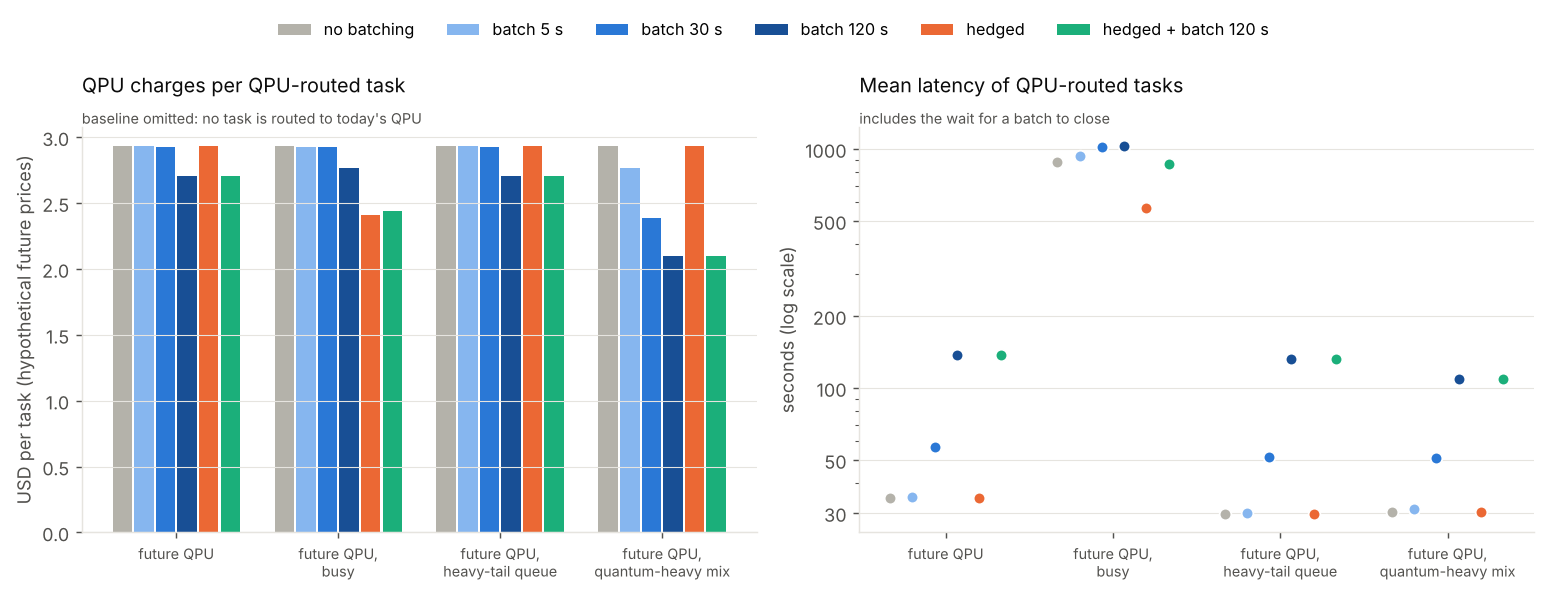
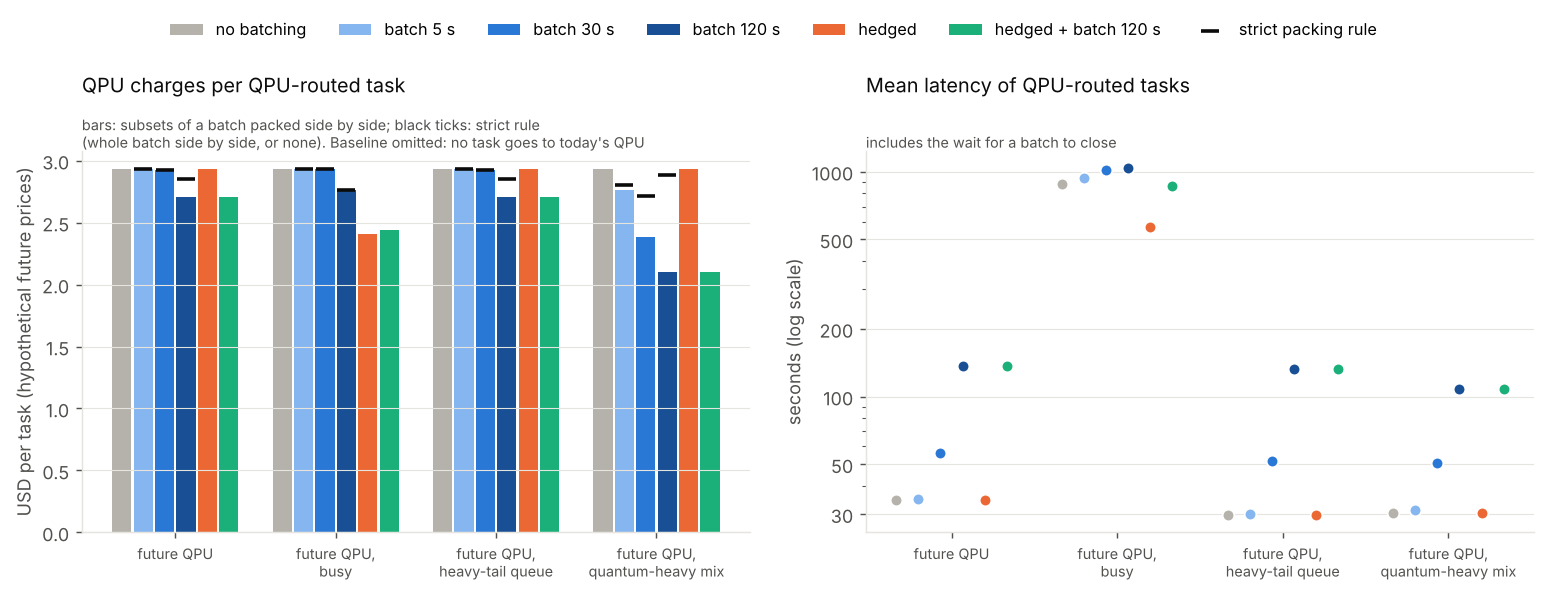
E7 review fixes: circuit-aligned shot sharing, strict-packing rows at every window
- Packed groups of programs with different shapes were charged the larger
  member's total shots (max of n_circuits x shots), which no circuit alignment
  can achieve: kernel 310x500 next to TFIM 5x4000 paid 155,000 shots instead of
  172,500. Simulator._group_round now merges circuit j of every member into one
  combined circuit (most shots, slowest per-shot time among members that have a
  circuit j). Same-shape members keep the old formula exactly, so every E7
  number is unchanged (all E7 QPU programs are 5x4000 TFIM circuits).
- The 120 s headline saving (-28.4% on quantum_heavy_future) depends on the
  first-fit subset packing added beyond the strict packing rule; only the 30 s
  strict figure was reported. E7 now runs the strict rule (-allfit) at 5, 30
  and 120 s: at 120 s it saves 1.5% (quantum_heavy_future) and 2.7%
  (future_qpu, heavy tail), with the same or larger hit-rate loss. The cost
  figure marks the strict-rule value on each batching bar.
- assumptions.md: the host share overlaps the batch window (and one slow member
  delays the job), packing uses the catalogue's 133 qubits, not a calibrated
  usable count; shot-sharing row describes the merged-circuit rule.
- EXTRA_SCENARIOS copy future_qpu's belief_scale dict instead of sharing it.
- Tests: mixed-shape packing pays circuit-aligned shots; a hedged member that
  expires while its batch is queued is withdrawn, pays nothing, gets censored
  feedback, and the rest share a job priced without it.
[…]

diff --git a/qedge/experiments/e7_batching.py b/qedge/experiments/e7_batching.py
@@ -1,6 +1,7 @@
 """E7: does batching QPU jobs, or racing a classical fallback against them, pay off?
 
-Both ideas target the QPU's fixed costs rather than its speed. Batching shares
+Both ideas work around the QPU's overheads (fixed per-job costs, queue risk)
+rather than its speed. Batching shares
 one provider job (one queue wait, one job overhead, one per-task fee) among
 several tasks and, when their programs fit side by side on the chip, shares
 shots too; the price is the time a task waits for its batch to close. Race mode
@@ -13,9 +14,12 @@ its place through the cost model's quality gate.
 Variants, all on the same workloads and random numbers per (scenario, seed):
 
 * ``adaptive``: qedge_adaptive, one job per task (the E3 policy);
-* ``adaptive+batch{5,30,120}``: windows of 5/30/120 s, up to 8 tasks, spatial packing;
+* ``adaptive+batch{5,30,120}``: windows of 5/30/120 s, up to 8 tasks, spatial packing
+  of first-fit-decreasing subsets (an extension beyond the strict packing rule);
+* ``adaptive+batch{5,30,120}-allfit``: the strict rule, all members side by side or
+  all back to back. With 34-79 qubit programs on 133 qubits whole batches rarely fit,
+  so most of the batching saving depends on subset packing; compare these rows;
 * diagnostics at 30 s: ``-seq`` (no spatial packing: members run back to back),
-  ``-allfit`` (all members side by side or none, the strict reading of the brief),
   ``-blind`` (the policy is not told about the batch window);
 * ``hedged``: qedge_hedged, P(miss) threshold 0.05;
 * ``hedged+batchW``: hedging plus the best window W, chosen by ``best_window``.
@@ -49,8 +53,9 @@ SWEEP_SCENARIOS = ["future_qpu_busy", "future_qpu_heavy_tail", "quantum_heavy_fu
 def variants(best: float | None = None) -> dict[str, tuple[str, BatchConfig | None]]:
     v = {"adaptive": ("qedge_adaptive", None)}
     v.update({f"adaptive+batch{w}": ("qedge_adaptive", BatchConfig(w, MAX_TASKS)) for w in WINDOWS})
+    v.update({f"adaptive+batch{w}-allfit": ("qedge_adaptive", BatchConfig(w, MAX_TASKS, partial_packing=False))
+              for w in WINDOWS})
     v["adaptive+batch30-seq"] = ("qedge_adaptive", BatchConfig(30, MAX_TASKS, spatial=False))
-    v["adaptive+batch30-allfit"] = ("qedge_adaptive", BatchConfig(30, MAX_TASKS, partial_packing=False))
     v["adaptive+batch30-blind"] = ("qedge_adaptive", BatchConfig(30, MAX_TASKS, inform_policy=False))
     v["hedged"] = ("qedge_hedged", None)
     if best is not None:
@@ -198,7 +203,7 @@ def make_figures(res_dir: str = "results", fig_dir: str = "figures") -> list[str
     import matplotlib.pyplot as plt
     from matplotlib.ticker import FuncFormatter, NullFormatter
 
-    from .figures import MUTED, _save
+    from .figures import INK, MUTED, _save
     os.makedirs(fig_dir, exist_ok=True)
     s = pd.read_csv(os.path.join(res_dir, "e7_batching_summary.csv"))
     per_run = pd.read_csv(os.path.join(res_dir, "e7_batching.csv"))
@@ -210,7 +215,9 @@ def make_figures(res_dir: str = "results", fig_dir: str = "figures") -> list[str
 
     def legend(fig, ax):
         h, lab = ax.get_legend_handles_labels()
-        fig.legend(h, lab, loc="lower center", bbox_to_anchor=(0.5, 1.0), ncol=len(names), fontsize=9)
+        order = sorted(range(len(lab)), key=lambda i: lab[i] == "strict packing rule")   # markers last
+        h, lab = [h[i] for i in order], [lab[i] for i in order]
+        fig.legend(h, lab, loc="lower center", bbox_to_anchor=(0.5, 1.0), ncol=len(h), fontsize=9)
 
     # 1. Deadline hit rate: all tasks (per-seed range) and QPU-routed tasks (pooled over seeds).
     fig, axes = plt.subplots(1, 2, figsize=(12, 4.2))
@@ -255,6 +262,10 @@ def make_figures(res_dir: str = "results", fig_dir: str = "figures") -> list[str
         x = x0 + (j - (len(names) - 1) / 2) * width
         d = s[s.variant == v].set_index("scenario")
         axes[0].bar(x, d.qpu_cost_per_qpu_task[FUTURE], width * 0.9, color=color, label=label)
+        strict = s[s.variant == f"{v}-allfit"].set_index("scenario")
+        if len(strict):
+            axes[0].scatter(x, strict.qpu_cost_per_qpu_task[FUTURE], marker="_", s=110, linewidth=2, color=INK,
+                            zorder=3, label="strict packing rule" if v == "adaptive+batch5" else None)
         # Log scale has no zero baseline, so latency is drawn as dots, not bars.
         axes[1].scatter(x, d.qpu_mean_latency_s[FUTURE], s=42, color=color, edgecolor="white", linewidth=1,
                         zorder=3, label=label)
@@ -262,16 +273,17 @@ def make_figures(res_dir: str = "results", fig_dir: str = "figures") -> list[str
         ax.set_xticks(x0)
         ax.set_xticklabels([SC_LABEL[sc] for sc in FUTURE], fontsize=8)
         ax.grid(axis="x", visible=False)
-    axes[0].set_title("QPU charges per QPU-routed task\n", loc="left")
+    axes[0].set_title("QPU charges per QPU-routed task\n\n", loc="left")
     axes[0].set_ylabel("USD per task (hypothetical future prices)")
-    axes[1].set_title("Mean latency of QPU-routed tasks\n", loc="left")
+    axes[1].set_title("Mean latency of QPU-routed tasks\n\n", loc="left")
     axes[1].set_ylabel("seconds (log scale)")
     axes[1].set_yscale("log")
     axes[1].yaxis.set_major_formatter(FuncFormatter(lambda v, _: f"{v:g}"))
     axes[1].yaxis.set_minor_formatter(NullFormatter())
     lo, hi = axes[1].get_ylim()
     axes[1].set_yticks([t for t in (10, 20, 30, 50, 100, 200, 500, 1000, 2000, 5000) if lo <= t <= hi])
-    axes[0].text(0, 1.0, "baseline omitted: no task is routed to today's QPU", transform=axes[0].transAxes,
+    axes[0].text(0, 1.0, "bars: subsets of a batch packed side by side; black ticks: strict rule\n(whole batch "
+                 "side by side, or none). Baseline omitted: no task goes to today's QPU", transform=axes[0].transAxes,
                  fontsize=8, color=MUTED, va="bottom")
     axes[1].text(0, 1.0, "includes the wait for a batch to close", transform=axes[1].transAxes,
                  fontsize=8, color=MUTED, va="bottom")

diff --git a/qedge/simulation/simulator.py b/qedge/simulation/simulator.py
@@ -89,10 +89,10 @@ EXTRA_SCENARIOS: dict[str, Scenario] = {s.name: s for s in [
     Scenario("future_qpu_heavy_tail", "Hypothetical future QPU with future_qpu's mean queue, but the real wait is "
              "lognormal (sigma 1.5, same mean): most jobs start sooner, about 1% wait 10x the mean or more. "
              "The provider publishes the true mean.",
-             belief_scale=SCENARIOS["future_qpu"].belief_scale, queue_dist="lognormal", queue_sigma=1.5),
+             belief_scale=dict(SCENARIOS["future_qpu"].belief_scale), queue_dist="lognormal", queue_sigma=1.5),
     Scenario("quantum_heavy_future", "Hypothetical future QPU with a workload mix weighted toward quantum simulation "
              "and optimisation and 3x the arrival rate, so enough work reaches the QPU to batch.",
-             belief_scale=SCENARIOS["future_qpu"].belief_scale, rate_per_s=0.6, mix=QUANTUM_HEAVY_MIX),
+             belief_scale=dict(SCENARIOS["future_qpu"].belief_scale), rate_per_s=0.6, mix=QUANTUM_HEAVY_MIX),
 ]}
 
 
@@ -138,8 +138,8 @@ class BatchConfig:
     max_tasks: int = 8
     spatial: bool = True             # members that fit run side by side on disjoint qubit regions
     buffer_overhead: float = 0.25    # idle qubits fencing each program off, as a fraction of its width (assumption)
-    partial_packing: bool = True     # if the whole batch does not fit, pack subsets first-fit decreasing;
-                                     # False = all members side by side or all back to back
+    partial_packing: bool = True     # if the whole batch does not fit, pack subsets first-fit decreasing
+                                     # (an extension); False = the strict rule: all side by side or all back to back
     pack_fidelity_factor: float | Callable[[int], float] = 1.0   # x fidelity when k programs share the chip
     inform_policy: bool = True       # the policy sees the expected wait for the batch to close as QPU slot wait
 
@@ -401,13 +401,35 @@ class Simulator:
                 room.append(q.max_qubits - foot[m.i])
         return groups
 
+    @staticmethod
+    def _group_round(act: list[_Member]) -> tuple[float, float]:
+        """(shots, execution time) of one round of programs running side by side.
+
+        Circuit j of every member runs inside one combined circuit, which needs the most shots
+        and the slowest per-shot time among the members that have a circuit j; a member with
+        fewer circuits drops out of the later combined circuits. Members of the same shape
+        (circuits, rounds, shots) reduce to the slowest member's time and one member's shots."""
+        if len({(m.w.quantum.n_circuits, m.rounds, m.w.quantum.shots) for m in act}) == 1:
+            m0 = act[0]
+            return m0.w.quantum.n_circuits * m0.w.quantum.shots / m0.rounds, max(m.b("q_exec") / m.rounds for m in act)
+        circ = {m.i: m.w.quantum.n_circuits / m.rounds for m in act}           # circuits per round
+        order = sorted(act, key=lambda m: -circ[m.i])
+        shots = t = s_max = tau_max = 0.0
+        for k, m in enumerate(order):
+            qp = m.w.quantum
+            s_max = max(s_max, qp.shots)
+            tau_max = max(tau_max, m.b("q_exec") / (qp.n_circuits * qp.shots))  # seconds per shot
+            step = circ[m.i] - (circ[order[k + 1].i] if k + 1 < len(order) else 0.0)
+            shots += step * s_max
+            t += step * s_max * tau_max
+        return shots, t
+
     def _plan(self, run: list[_Member], q: Resource) -> _Plan:
         """Lockstep rounds: each round is one job with the members that still have rounds left.
-        Within a group the slowest member sets the time and the largest shot count is paid
-        (shots are shared); groups, and members that are not packed, add up."""
+        Within a group the members' circuits are run in combined circuits (``_group_round``), so
+        shots are shared; groups, and members that are not packed, add up."""
         groups = self._pack(run, q)
         hop = {m.i: m.b("q_rounds") / m.rounds - q.job_overhead_s for m in run}  # host<->QPU hop per round
-        shots = {m.i: m.w.quantum.n_circuits * m.w.quantum.shots for m in run}
         n_rounds = max(m.rounds for m in run)
         t = exec_total = shots_total = 0.0
         done: dict[int, float] = {}
@@ -416,8 +438,9 @@ class Simulator:
             for g in groups:
                 act = [m for m in g if m.rounds >= r]
                 if act:
-                    exec_r += max(m.b("q_exec") / m.rounds for m in act)
-                    shots_r += max(shots[m.i] / m.rounds for m in act)
+                    s, e = self._group_round(act)
+                    exec_r += e
+                    shots_r += s
                     hop_r = max(hop_r, max(hop[m.i] for m in act))
             t += q.job_overhead_s + hop_r + exec_r
             exec_total += exec_r

diff --git a/tests/test_batching.py b/tests/test_batching.py
@@ -269,6 +269,22 @@ def test_programs_that_do_not_fit_run_back_to_back():
     assert two.pack_group.tolist() == [1, 1]
 
 
+def test_packed_programs_of_different_shapes_pay_circuit_aligned_shots():
+    """Kernel (310 circuits x 500 shots) next to TFIM (5 x 4000): the five combined circuits need 4000 shots
+    each and the kernel's other 305 circuits 500 each, which is more than the larger member's shots alone."""
+    k = make_workload("kernel_classification", 0, seed=0, features=4, n_train=20, deadline_s=1e5, privacy=False)
+    s = make_workload("quantum_simulation", 1, seed=1, n=20, steps=4, deadline_s=1e5)
+    k.arrival_s, s.arrival_s = 0.0, 1.0
+    q = Simulator(QUIET).true["qpu"]
+    df = run_always(QUIET, [k, s], BatchConfig(window_s=10, max_tasks=2))
+    assert df.pack_group.tolist() == [2, 2]
+    kc, ks, sc, ss = k.quantum.n_circuits, k.quantum.shots, s.quantum.n_circuits, s.quantum.shots
+    assert (kc, ss) == (310, 4000)
+    shots = sc * max(ks, ss) + (kc - sc) * ks
+    assert df.qpu_cost_usd.sum() == pytest.approx(q.cost_per_task + shots * q.cost_per_shot)
+    assert kc * ks < shots < kc * ks + sc * ss
+
+
 def test_pack_fidelity_factor_lowers_packed_quality_only():
     wl = qsim_tasks([0, 1], n=20, steps=12)
     alone = run_always(QUIET, wl)
@@ -329,6 +345,42 @@ def test_qpu_job_cancelled_in_queue_costs_nothing():
     # without the hedge the same job runs (late) and is paid in full
     plain = run_always(stuck, wl).iloc[0]
     assert not plain.deadline_met and plain.qpu_cost_usd == pytest.approx(_qpu_charge(wl[0], sim.true["qpu"]))
+
+
+class HedgeSome(AlwaysQPU):
+    """AlwaysQPU that hedges only the listed task ids (with cloud_gpu) and records its feedback."""
+
+    def __init__(self, resources, seed=0, hedge_ids=()):
+        super().__init__(resources, seed, hedge_with="cloud_gpu")
+        self.hedge_ids, self.outcomes = set(hedge_ids), []
+
+    def decide(self, w, st):
+        d = super().decide(w, st)
+        if w.id not in self.hedge_ids:
+            d.hedge = d.hedge_estimate = None
+        return d
+
+    def observe(self, decision, outcome):
+        self.outcomes.append((decision.workload.id, decision.placement.quantum, outcome))
+
+
+def test_hedged_member_withdrawn_from_a_queued_batch_pays_nothing_and_others_share_without_it():
+    queued = dataclasses.replace(QUIET, name="queue_200", queue_trace=[200.0])   # every job waits 200 s
+    wl = qsim_tasks([0, 1, 2], n=30)
+    wl[0].deadline_s, wl[2].deadline_s = 100, 250      # task 0 expires while queued, task 2 does not
+    sim = Simulator(queued, batching=BatchConfig(window_s=10, max_tasks=3))
+    pol = HedgeSome(copy.deepcopy(sim.nominal), hedge_ids=(0, 2))
+    df = sim.run(pol, wl)
+    q = sim.true["qpu"]
+    assert df.qpu_cancelled.tolist() == [True, False, False]
+    assert df.winner.tolist() == ["classical", "", "quantum"] and df.deadline_met.all()
+    assert df.qpu_cost_usd.iloc[0] == 0.0 and df.pack_group.tolist() == [0, 2, 2]
+    # the two remaining 30-qubit programs share one fee and one set of shots
+    shots = wl[1].quantum.n_circuits * wl[1].quantum.shots
+    assert df.qpu_cost_usd.iloc[1:].sum() == pytest.approx(q.cost_per_task + shots * q.cost_per_shot)
+    qpu_feedback = {i: o for i, res, o in pol.outcomes if res == "qpu"}
+    assert qpu_feedback[0]["qpu_queue_censored"] and qpu_feedback[0]["latency_s"] == 100
+    assert not qpu_feedback[2]["qpu_queue_censored"] and qpu_feedback[2]["qpu_queue_s"] == 200
 
 
 def test_qpu_job_that_started_before_the_deadline_is_paid_even_if_late():

diff --git a/docs/assumptions.md b/docs/assumptions.md
@@ -77,10 +77,11 @@ These mechanisms live only in the discrete-event simulator; nothing here was run
 | Batch closes | at `max_tasks` (8) tasks, or `window_s` (5, 30 or 120 s) after its first task arrived | design choice; checked in arrival order, so an expired batch closes at its expiry time when the next task arrives |
 | What one batch pays | one provider queue wait, one job overhead (3 s) and one per-task fee per round | a batch is submitted as a single job |
 | Queue wait of a batch | the first member's own draw from the scenario's queue distribution | keeps the random-number stream identical to the unbatched run |
+| Host share of a batched task | the classical host share (upload, optimiser set-up) runs while the batch is open; the job is submitted at batch close or when the last member's host share is done, whichever is later | the host work overlaps the batch window instead of adding to it, and one slow member delays the whole job |
 | Multi-round programs (QAOA) | all rounds of a batch run in lockstep: one queue wait for round 1, then rounds back to back; each round is one job holding the members that still have rounds left | assumes a session-like reservation after the first job starts |
 | Qubits a packed program needs | `n + ceil(0.25 n)` (25% idle buffer qubits around it) | placeholder for crosstalk isolation on heavy-hex chips; to be replaced by the packing experiment |
-| Spatial packing | members are packed first-fit decreasing into groups that fit the device (133 qubits); a group runs side by side, groups run back to back | `partial_packing=False` gives the stricter rule: all members side by side, or all back to back |
-| Time and shots of a packed group | the slowest member's execution time; the largest member's shot count, paid once (shots are shared) | optimistic: assumes circuits of different members can be aligned in one submission |
+| Spatial packing | members are packed first-fit decreasing into groups that fit the device (133 qubits); a group runs side by side, groups run back to back | extension beyond the strict rule; `partial_packing=False` gives it: all members side by side, or all back to back. Usable qubits are the catalogue's 133, not a calibrated count that excludes broken qubits |
+| Time and shots of a packed group | circuit j of every member runs in one combined circuit, which takes the most shots and the slowest per-shot time among the members that have a circuit j (for members of the same shape: the slowest member's time, one member's shots) | optimistic: assumes circuits of different members can be merged in one submission |
 | Fidelity of a packed program | multiplied by `pack_fidelity_factor` (default 1.0, i.e. no crosstalk penalty) | not measured yet; the integrator sets it from the packing experiment |
 | Splitting a batch's charges | QPU money in proportion to what each member would pay alone; QPU energy in proportion to its execution time | accounting convention; totals are unaffected |
 | Batch window and the policy | the policy sees the expected wait for the batch to close as extra QPU wait (full window for a new batch) | `inform_policy=False` hides it; the adaptive feedback then learns it slowly |
